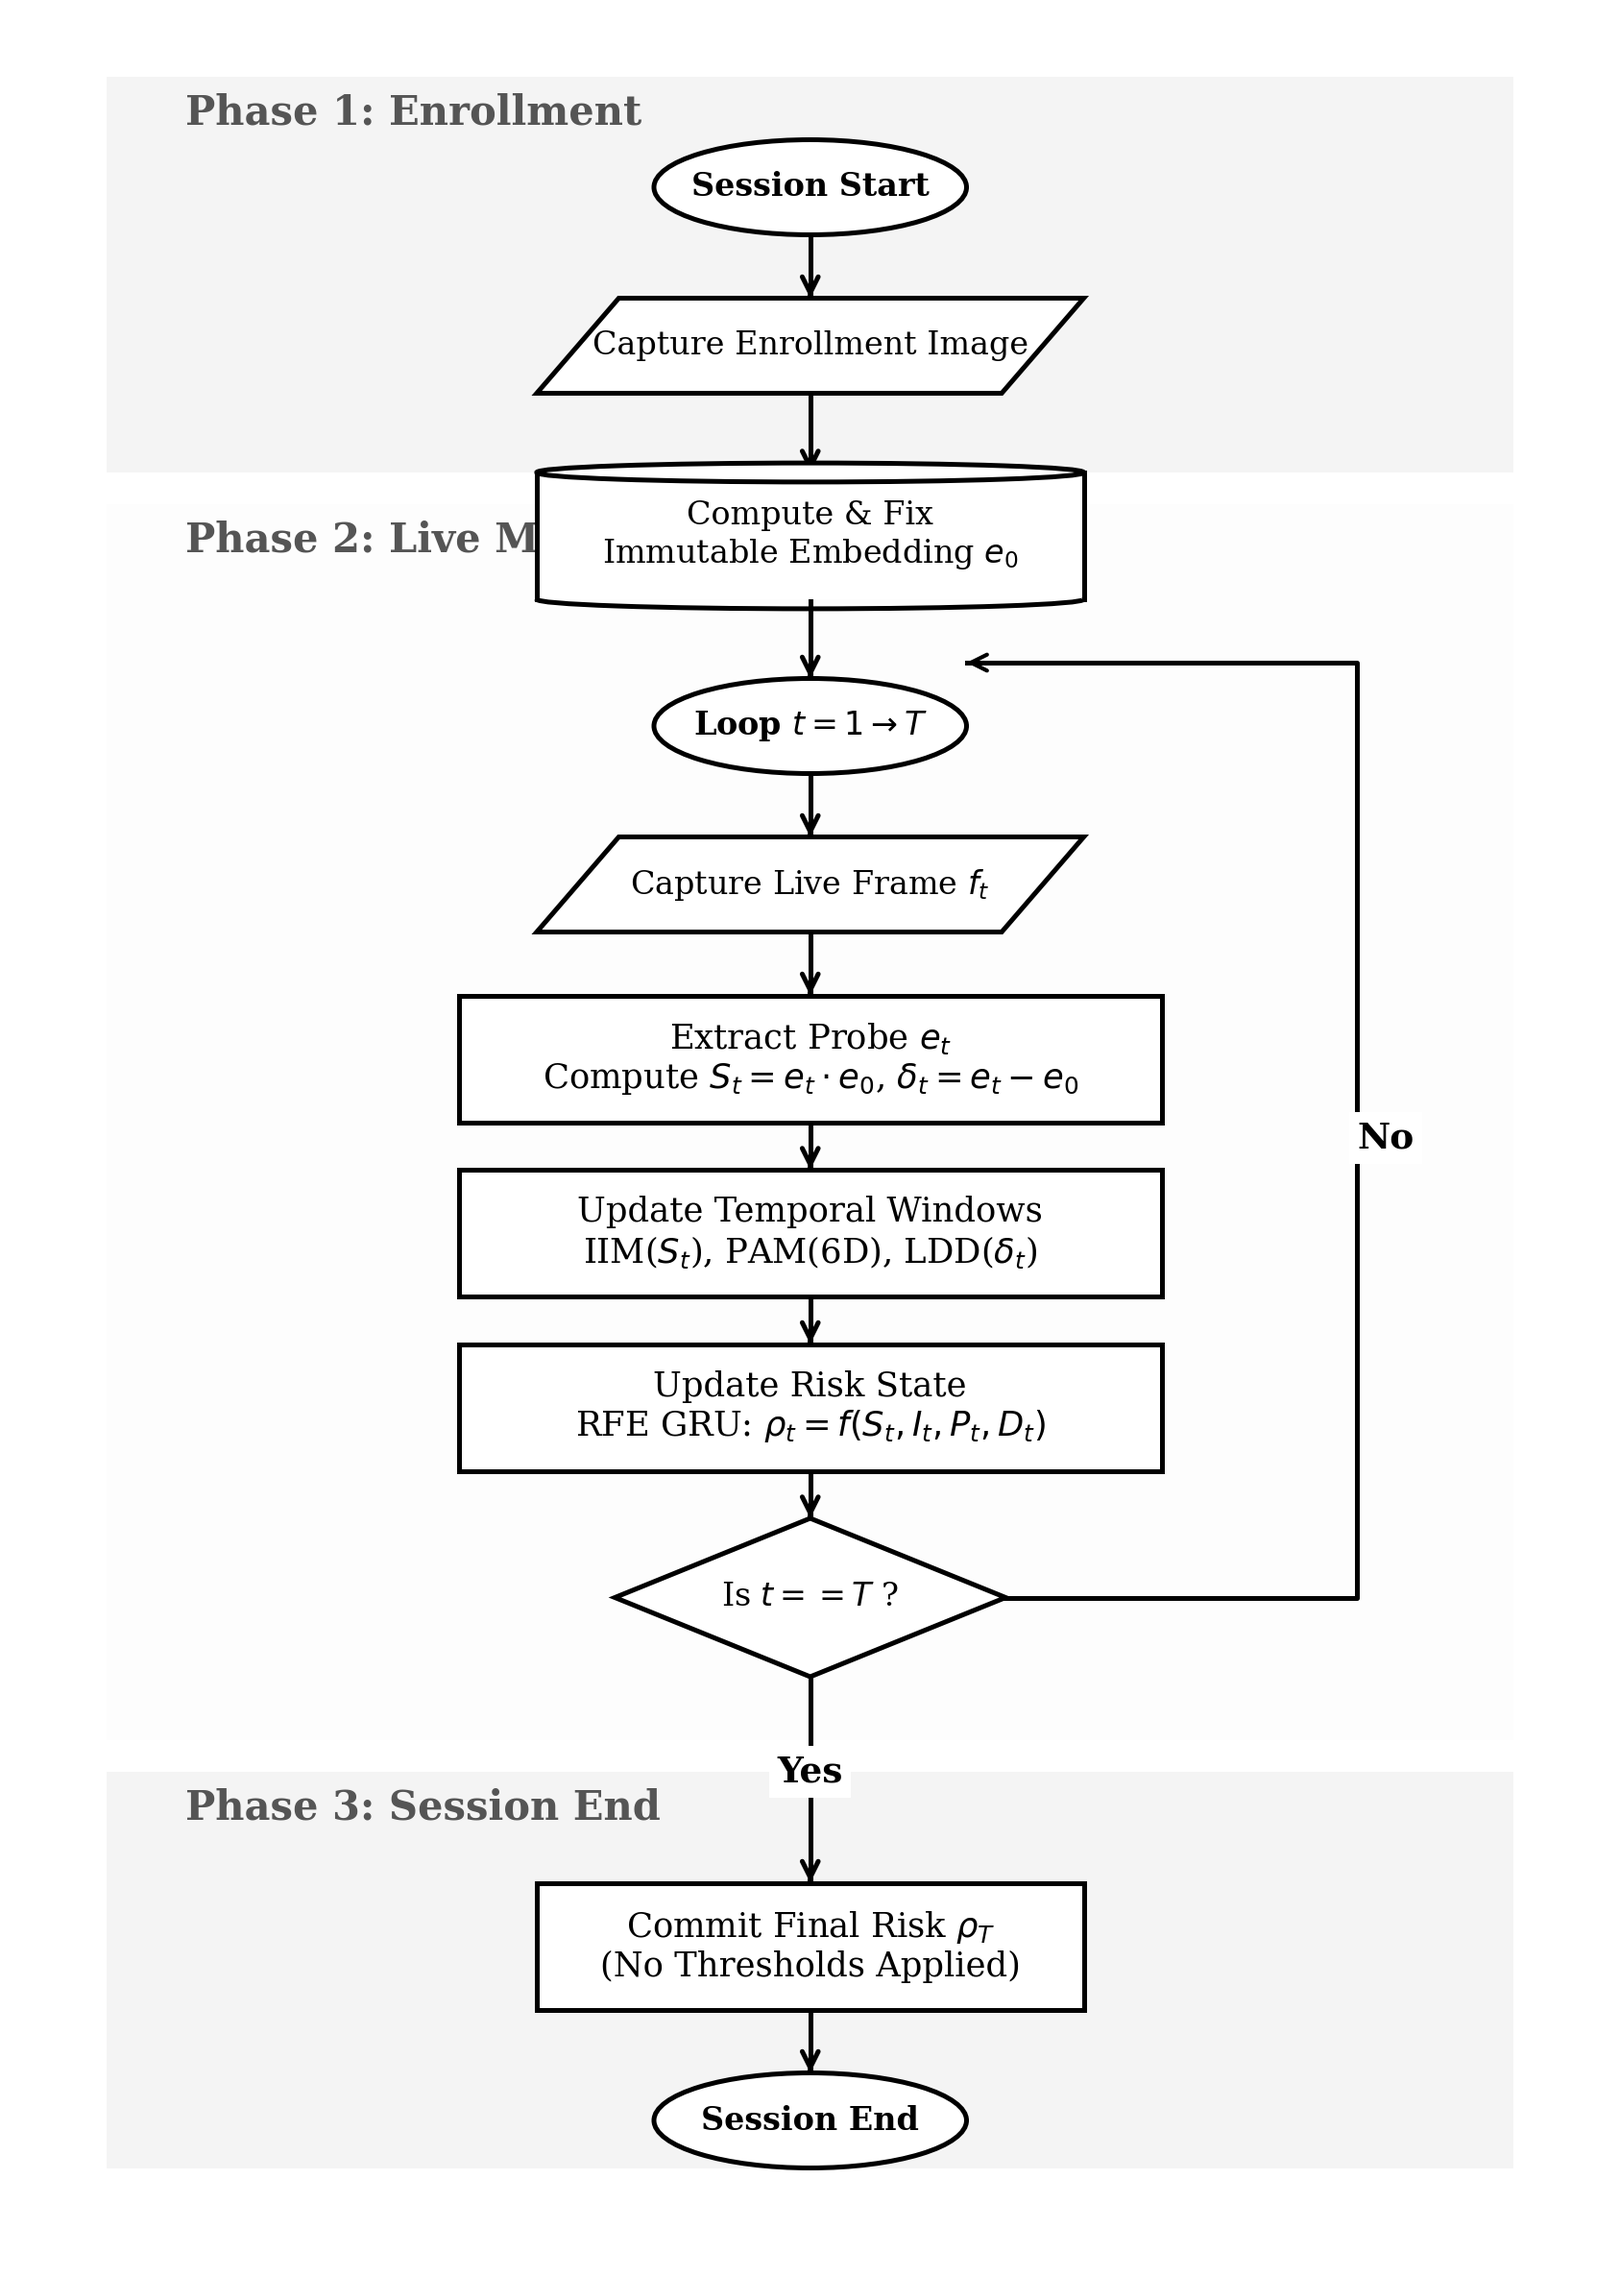
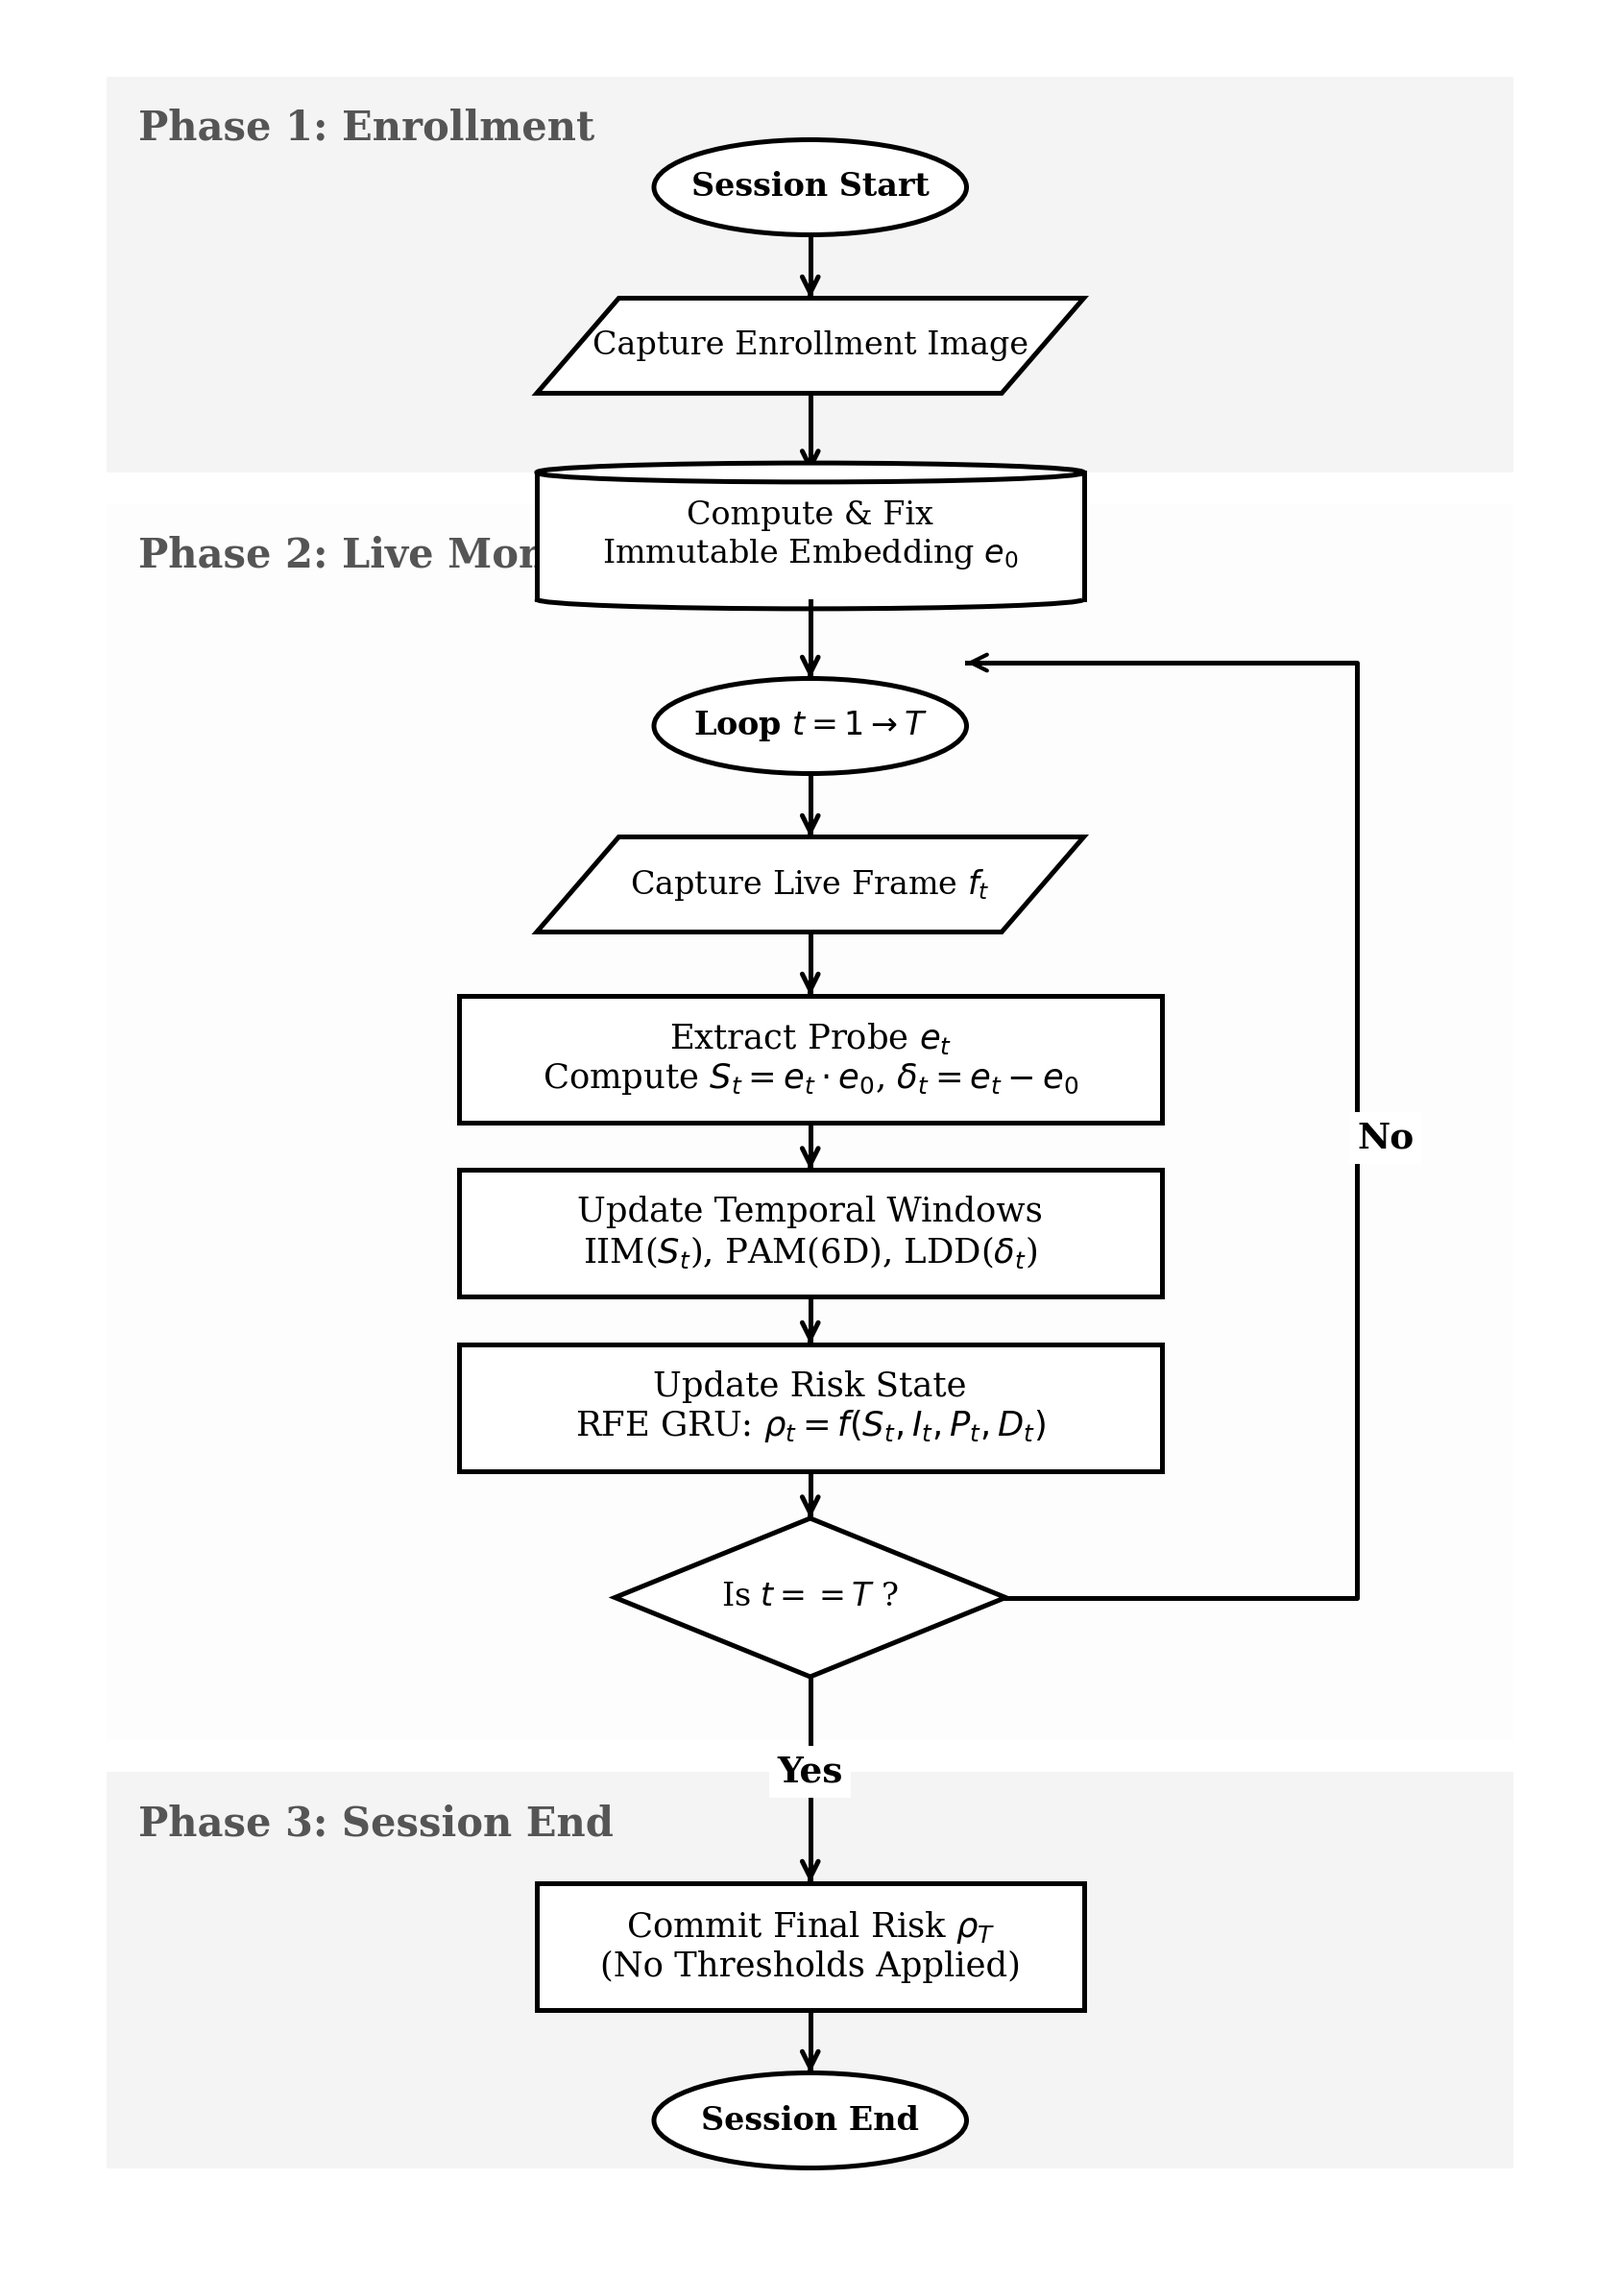
style: fix diagram overlap on Phase labels
- Aligned Phase labels to Top-Left in the block backgrounds
- Prevents text overlapping with centered flowchart nodes.

Changed region(s): [[0.0925, 0.7806, 0.4007, 0.8118], [0.0925, 0.0312, 0.4007, 0.0624], [0.0925, 0.2186, 0.3391, 0.2498]]

diff --git a/generate_architecture_diagrams.py b/generate_architecture_diagrams.py
@@ -250,13 +250,13 @@ def fig7_workflow():
     
     # Draw Background Phase Zones
     ax.add_patch(mpatches.Rectangle((0.5, 11.2), 9, 2.5, fill=True, facecolor='#f4f4f4', edgecolor='none', zorder=0))
-    ax.text(1.0, 13.4, "Phase 1: Enrollment", fontsize=10, fontweight='bold', color='#555555')
+    ax.text(0.7, 13.5, "Phase 1: Enrollment", fontsize=10, fontweight='bold', color='#555555', ha='left', va='top')
     
     ax.add_patch(mpatches.Rectangle((0.5, 3.2), 9, 7.8, fill=True, facecolor='#fdfdfd', edgecolor='none', zorder=0))
-    ax.text(1.0, 10.7, "Phase 2: Live Monitoring", fontsize=10, fontweight='bold', color='#555555')
+    ax.text(0.7, 10.8, "Phase 2: Live Monitoring", fontsize=10, fontweight='bold', color='#555555', ha='left', va='top')
     
     ax.add_patch(mpatches.Rectangle((0.5, 0.5), 9, 2.5, fill=True, facecolor='#f4f4f4', edgecolor='none', zorder=0))
-    ax.text(1.0, 2.7, "Phase 3: Session End", fontsize=10, fontweight='bold', color='#555555')
+    ax.text(0.7, 2.8, "Phase 3: Session End", fontsize=10, fontweight='bold', color='#555555', ha='left', va='top')
     
     # Nodes
     draw_oval(ax, cx, 13.0, 2.0, 0.6, "Session Start")
